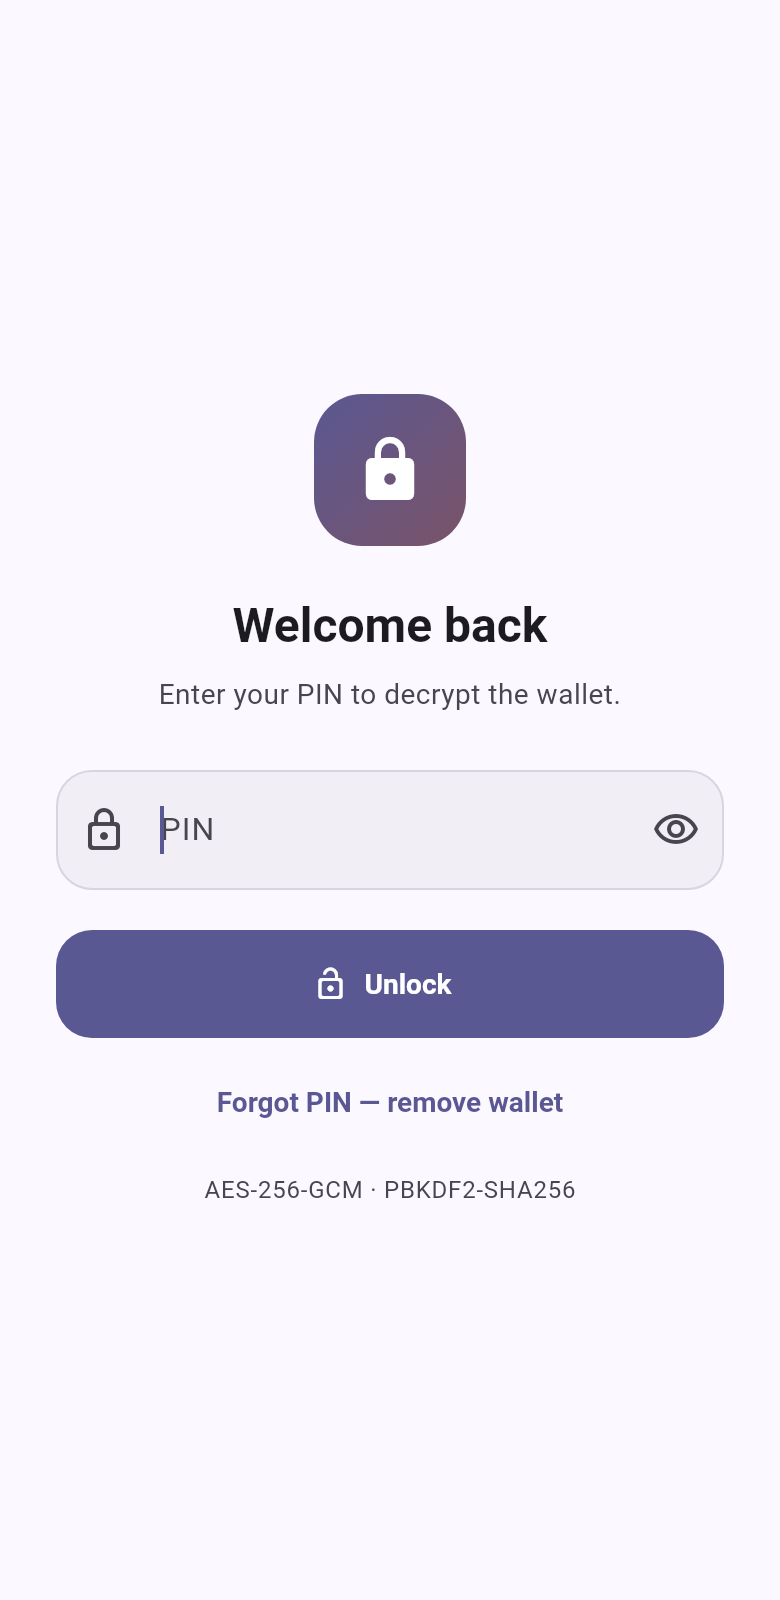
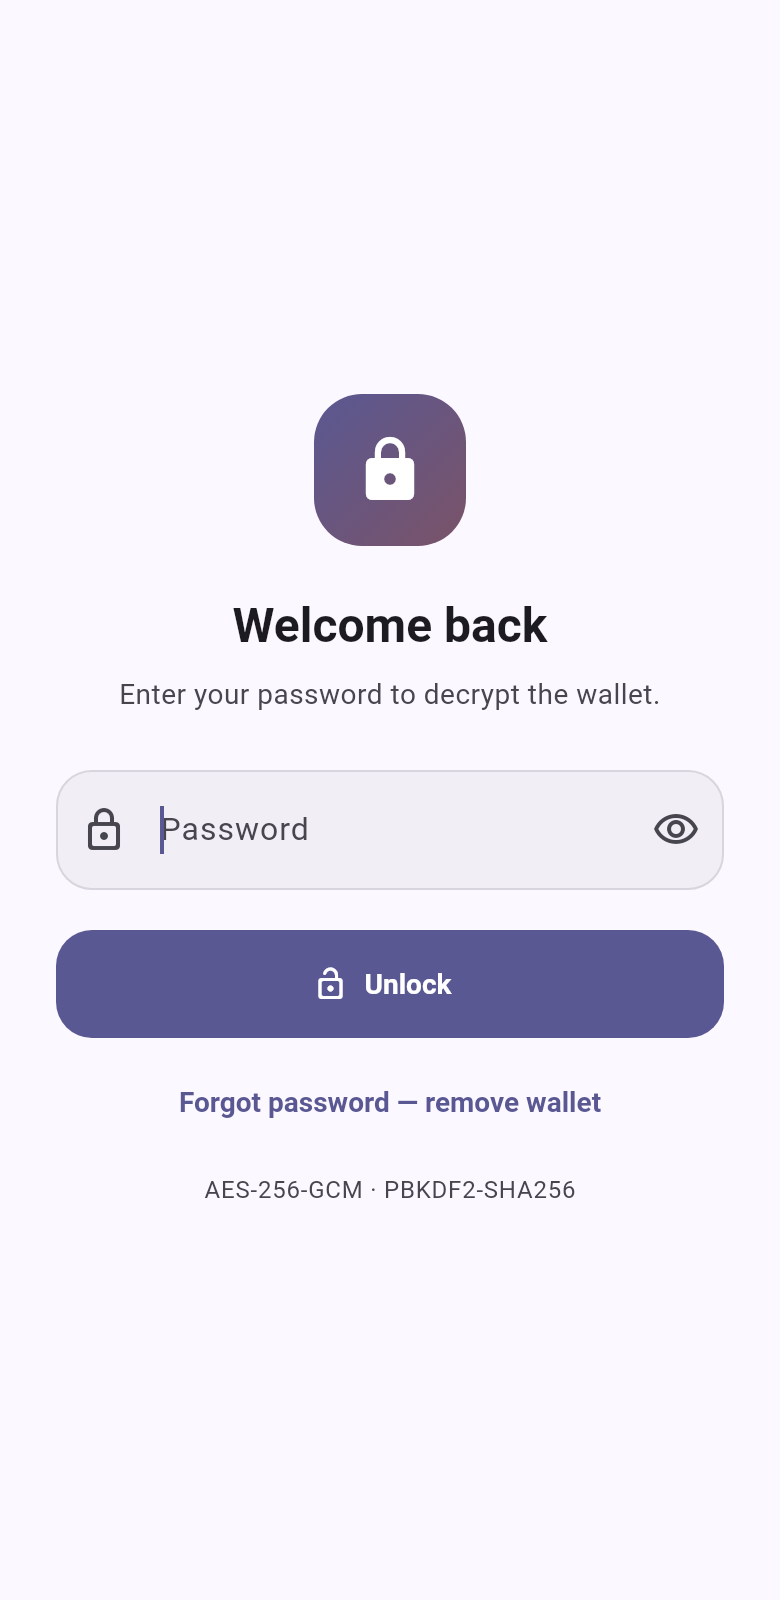
Docs: record live-check results, password/web storage caveats, new milestone E; pin derivation vectors
- GOALS.md / ЦІЛІ.md: refresh §2 numbers, mark 3.8/3.9 as updated, add milestone E,
  rewrite §8 with the results of the live run (incl. the Aptos gas-floor finding)
  and what is still open.
- README: honest disclaimer about what was exercised live, a "what the password
  does and does not protect" section (web storage), verification table with
  status, project structure, roadmap.
- Cross-implementation vectors for Bitcoin/EVM accounts 1-2 and the testnet prefix.
- Regenerated the lock-screen screenshot (password field).

Claude-Session: https://claude.ai/code/session_01A2iXFUu9mC1iG4QZBMTZBk

diff --git a/test/address_deriver_test.dart b/test/address_deriver_test.dart
@@ -52,6 +52,43 @@ void main() {
     });
   });
 
+  group('AddressDeriver — cross-implementation vectors', () {
+    // Generated by an independent BIP-32 / BIP-84 / BIP-44 implementation (no
+    // code shared with the app; it reproduces the published account-0 vectors
+    // above), so a change in the `bip32` dependency or in path handling cannot
+    // pass silently. Phrase: the BIP-39 "abandon … about" vector.
+    final Uint8List seed = AddressDeriver.seedFromMnemonic(vectorMnemonic);
+
+    test('Bitcoin accounts 1 and 2 (m/84\'/0\'/n\'/0/0)', () {
+      expect(
+        AddressDeriver.bitcoinAddressFromSeed(seed, account: 1),
+        'bc1qku0qh0mc00y8tk0n65x2tqw4trlspak0fnjmfz',
+      );
+      expect(
+        AddressDeriver.bitcoinAddressFromSeed(seed, account: 2),
+        'bc1qkljqd65ax6mdpyzm9c2r8scg8euymkfqauukae',
+      );
+    });
+
+    test('Bitcoin testnet uses the same key under the tb prefix', () {
+      expect(
+        AddressDeriver.bitcoinAddressFromSeed(seed, hrp: 'tb'),
+        'tb1qcr8te4kr609gcawutmrza0j4xv80jy8zmfp6l0',
+      );
+    });
+
+    test('EVM accounts 1 and 2 (m/44\'/60\'/n\'/0/0)', () {
+      expect(
+        AddressDeriver.ethereumAddressFromSeed(seed, account: 1),
+        '0x78839F6054d7ed13918bAe0473BA31b1Ca9D7265',
+      );
+      expect(
+        AddressDeriver.ethereumAddressFromSeed(seed, account: 2),
+        '0x07B5FdfEB4E11826D233403Fe8Db0611CCF4c231',
+      );
+    });
+  });
+
   group('AddressDeriver — BIP-39 passphrase', () {
     test('matches the reference vector (passphrase "TREZOR")', () {
       // The first vector of the BIP-39 reference test set: the passphrase is

diff --git a/docs/GOALS.md b/docs/GOALS.md
@@ -1,6 +1,6 @@
 # Material Wallet — analysis and project goals
 
-Date: 18 October 2026 (updated 19 October 2026 — every goal in §4 is implemented in code) · version in `pubspec.yaml`: `0.4.0+5`
+Date: 18 October 2026 (updated 19 October 2026 — every goal in §4 is implemented in code, and the live checks were run the same day: see §8) · version in `pubspec.yaml`: `0.4.0+5`
 
 This document has four parts: the main goal and the principles that must not
 be broken; what already exists; what was found during the review (facts from
@@ -32,12 +32,13 @@ The principles are constraints on every goal in this document:
 
 | | |
 |---|---|
-| Size | `lib/` ≈ 20.3k lines, `test/` ≈ 9.0k, 396 tests |
+| Size | `lib/` ≈ 20.5k lines, `test/` ≈ 9.2k, 413 tests |
 | Networks | 11: Bitcoin (+ testnet), Ethereum, Sepolia, Base, Polygon, Arbitrum, BNB, Solana (+ Devnet), Aptos |
 | Sending | every network: EVM and BNB (EIP-1559, ERC-20, speed-up / cancel, revoke), Bitcoin (P2WPKH, RBF speed-up), SOL and APT (native coin). SPL tokens — view only |
-| Security | AES-256-GCM + PBKDF2 600k, 6–8 digit PIN, biometrics, auto-lock, backoff after wrong PINs, `FLAG_SECURE`, re-authentication before every send |
+| Security | AES-256-GCM + PBKDF2 600k, password of at least 8 characters (old 6–8 digit PINs still unlock), biometrics, auto-lock, backoff after wrong PINs, `FLAG_SECURE`, re-authentication before every send |
 | Providers | mempool.space, Blockscout, CoinGecko, PublicNode, dRPC, 1RPC, official RPCs (Base, Arbitrum, Polygon, BNB), Solana RPC, Aptos fullnode |
-| `ponytail:` markers | 7 |
+| `ponytail:` markers | 8 |
+| Automation | GitHub Actions: `flutter analyze` + `flutter test` on every push and PR; a manual workflow runs the no-spend live checks of §8 |
 
 Three things are done unusually well:
 
@@ -167,6 +168,8 @@ BNB balance does not load at all.
 
 ### 3.8. The PIN is weaker than "600,000 rounds" suggests
 
+> **Updated 2026-10-19:** the password option is done (goal B6): new vaults need at least 8 characters of any kind, which changes the arithmetic below completely. The math still applies to a vault created before B6 with a 6–8 digit PIN, and unlocking never required a minimum, so those wallets keep working: changing the PIN to a password in Settings is the fix. The README now says plainly that on the web build the vault lives in browser storage, where the Keystore argument below does not hold.
+
 PBKDF2 with 600k rounds is the right figure for passwords, but a PIN is 6–8
 digits (`pin_field.dart`: `digitsOnly`, `maxLength: 8`). An RTX 4090 computes
 PBKDF2-HMAC-SHA256 at roughly 8.9 million/s with 999 iterations (hashcat, mode
@@ -182,6 +185,8 @@ the web build, where storage is the browser, it is not. The README should say
 so directly.
 
 ### 3.9. Smaller items
+
+> **Updated 2026-10-19:** the BNB sending gap (C6), the unsaved "hide balance" (D4), unnamed accounts (D3) and the three-of-six provider list (D8) are all fixed; the items below are kept as the record of what was found. One new finding: Bitcoin **testnet** addresses (`tb1…`) are derived from the same path as mainnet (`m/84'/0'/…`, coin type 0), where BIP-84 assigns testnet coin type 1. The key is the same as the mainnet key under a different prefix. It is a simplification, not a bug, and it is not changed because that would move every existing testnet address; do not reuse a testnet account as a mainnet one anyway.
 
 - Address-poisoning checks run only on EVM (`send_screen.dart:179`) — fixed
   2026-10-18 (goal B5): the EVM-only condition is gone and `AddressGuard`
@@ -366,8 +371,21 @@ history-based poisoning check on this network — the UI must say so.
 | D7. Search in Activity by address, label or hash | 2–3 h | after A7 · done 2026-10-19 |
 | D8. Full provider list in About | 10 min | see 3.9 · done 2026-10-18 |
 
+### Milestone E — "Trust what is already built" · done 2026-10-19
+
+Goals that came out of the review of A–D rather than from the original analysis.
+
+| goal | status | note |
+|---|---|---|
+| E1. CI | done | `.github/workflows/ci.yml`: `flutter analyze` and `flutter test` on every push to `main` and every PR, Flutter pinned to the version in the README. |
+| E2. Run the live checks | done except two | See §8. The run found a real bug (the Aptos gas floor). |
+| E3. Live checks that fail loudly | done | Every `tool/verify_*.dart` now sets a non-zero exit code on `FAIL`, so a workflow cannot go green on a failed check; `.github/workflows/live-checks.yml` runs them by hand. `tool/verify_ens.dart` is new. |
+| E4. Derivation vectors beyond the pinned ones | done | The official SLIP-0010 ed25519 vectors (`test/slip10_vectors_test.dart`) pin the derivation function for any path; Bitcoin accounts 1–2, the testnet prefix and EVM accounts 1–2 are pinned with values from an independent BIP-32 implementation that reproduces the published account-0 vectors. Both are in `test/`. |
+| E5. Manual "hide token" | done | Long-press a token on the home list; "Show N hidden" restores it; stored per network and contract. **Known limit** (`ponytail:`): hiding trims the list only, the totals still count a priced hidden token. |
+
 ### Larger ideas — separate branches
 
+- **Sending SPL tokens and Aptos fungible assets** — balances are shown today. SPL needs the recipient's associated token account (created on demand, with its own rent) and a new vector from an external implementation, plus a devnet simulation, before it may sign (§7 rule 3).
 - **Watch-only addresses** — follow a cold wallet without keys. Requires
   separating "address" from "seed" in `WalletIdentityController`.
 - **Multiple seed phrases** — currently one vault per device.
@@ -397,7 +415,7 @@ history-based poisoning check on this network — the UI must say so.
 
 The first four rows are about two days of work, after which the wallet stops
 showing wrong amounts and catches the most expensive sending mistakes.
-Rows 1–4 and all of row 5 except B3 (Bitcoin RBF) are done as of 2026-10-18. Rows 6–10 (A7, C1, D1, B3 Speed up, C2, C3 → C6, D2–D7) were done on 2026-10-19: everything is in code and tests, except the live checks in §8.
+Rows 1–4 and all of row 5 except B3 (Bitcoin RBF) are done as of 2026-10-18. Rows 6–10 (A7, C1, D1, B3 Speed up, C2, C3 → C6, D2–D7) were done on 2026-10-19: everything is in code and tests. The live checks in §8 were run the same day; two of them still need a funded testnet wallet.
 
 ---
 
@@ -436,15 +454,22 @@ Rows 1–4 and all of row 5 except B3 (Bitcoin RBF) are done as of 2026-10-18. R
 
 ---
 
-## 8. What still has to be checked live
+## 8. Live checks
 
-The code and vectors are done, but outbound traffic to chain nodes is blocked in the development environment, so nobody has run these checks yet. Do them before trusting a path with real funds:
+Outbound traffic to chain nodes was blocked while the code of §4 was written, so the paths below had only vectors behind them. On 2026-10-19 the no-spend checks were run from a machine with network access. None of them signs with a funded key or spends anything.
 
-| What | How | Success looks like |
+| What | How | Result |
 |---|---|---|
-| BNB Chain | `dart run tool/verify_eip1559.dart bsc-testnet` | `PASS`: the node decoded the type-2 transaction and rejected it only for insufficient funds |
-| Solana | `dart run tool/verify_solana.dart` | `PASS`: `AccountNotFound` for the real signature, a signature failure for the tampered one |
-| Aptos | `dart run tool/verify_aptos.dart` | `PASS`: `SENDING_ACCOUNT_DOES_NOT_EXIST` for the real transaction, a parse error for the control |
-| Bitcoin RBF | send 1 sat/vB on testnet → "Speed up" → confirmation | the replacement is accepted and the original can no longer confirm |
-| ENS | type a known `name.eth` into Send on Ethereum | the address under the field is the expected one |
-| Fallback RPC | block the first node (or point it at a dead host) | the send goes through the next node |
+| EVM on Sepolia | `dart run tool/verify_eip1559.dart sepolia` | **PASS** — the node decoded the type-2 transaction and rejected it only for insufficient funds |
+| BNB Chain | `dart run tool/verify_eip1559.dart bsc-testnet` | **PASS** — same, on chain id 97 |
+| Solana | `dart run tool/verify_solana.dart` | **PASS** — `AccountNotFound` for the real signature, `SignatureFailure` for the tampered one |
+| Aptos | `dart run tool/verify_aptos.dart` | **PASS after a fix** — see below |
+| ENS | `dart run tool/verify_ens.dart` | **PASS** — `vitalik.eth` resolved to `0xd8da…6045`; an unregistered name reverted and is treated as "nothing" |
+| Fallback RPC | block the first node (or point it at a dead host) | **not run live** — covered by `test/rpc_failover_test.dart` with a fake transport; a real dead node has not been tried |
+| Bitcoin RBF | send 1 sat/vB on testnet → "Speed up" → confirmation | **not run** — needs a funded testnet wallet; the replacement planner is covered by `test/bitcoin_rbf_test.dart` |
+
+**What the Aptos run found.** The first run failed: the node parsed the BCS transaction but refused it with `MAX_GAS_UNITS_BELOW_MIN_TRANSACTION_GAS_UNITS`. The wallet's `max_gas_amount` floor was 2 000 units; bisecting against the testnet node put the intrinsic minimum at **5 210**. Every real Aptos send would have been rejected, and no vector or unit test could have shown it, because the minimum is a property of the chain. The floor is now 10 000 (`AptosSigner.maxGasFloor`); only gas actually used is charged. **Mainnet was not probed**, so that margin is a judgement, not a measurement: run `verify_aptos.dart` against mainnet's node before relying on it. With the floor fixed, a made-up sender fails earlier (`INVALID_AUTH_KEY`), so the tool now derives the sender from the key and accepts `INSUFFICIENT_BALANCE_FOR_TRANSACTION_FEE` as proof the node accepted the transaction.
+
+The same checks can be run from GitHub: **Actions → Live checks → Run workflow**.
+
+Still worth doing before real funds: a Bitcoin testnet speed-up, and one send of a few cents on each network the wallet signs.

diff --git a/README.md b/README.md
@@ -8,9 +8,11 @@ generated locally, encrypted, and stored only on this device.
 > This project is a **portfolio / educational app**. It derives real public
 > addresses, reads live on-chain data, and **signs and broadcasts real
 > transactions** on-device: EVM chains (native coin and ERC-20), Bitcoin, and the
-> native coin of Solana and Aptos. The Solana, Aptos and BNB Chain send paths are
-> pinned by reference vectors but have **not yet been exercised against a live
-> node** — see [Verifying the signing paths](#verifying-the-signing-paths).
+> native coin of Solana and Aptos. Every signing path is pinned by reference
+> vectors, and the EVM, BNB Chain, Solana and Aptos paths have been checked
+> against live nodes **by simulation only — no funded transfer has been sent**;
+> the Bitcoin replace-by-fee path has not been tried on a live network at all —
+> see [Verifying the signing paths](#verifying-the-signing-paths).
 > **Do not use it to store meaningful funds.**
 
 ---
@@ -45,7 +47,7 @@ generated locally, encrypted, and stored only on this device.
   transfers and Low/Normal/High/**custom** fee presets. On **EVM networks** the
   transfer is signed on-device as an **EIP-1559** (type-2) transaction with a
   fee cap (EIP-2, RFC-6979), re-checks the live balance right before signing,
-  and is broadcast for real after a PIN confirmation, ending on a full-screen
+  and is broadcast for real after a password (or fingerprint) confirmation, ending on a full-screen
   success screen. On **Bitcoin** the transfer is a native SegWit
   (**BIP-143 P2WPKH**) transaction: utxos are selected for the entered amount,
   change returns to your address, the fee is priced in sat/vB with the same
@@ -72,7 +74,9 @@ generated locally, encrypted, and stored only on this device.
 - 🪙 **Token balances** — ERC-20 holdings with USD values on the Blockscout-backed
   EVM networks (tap a token to send it), and **SPL tokens** on Solana (Token and
   Token-2022 programs; tickers and prices from CoinGecko, shown but not yet
-  sendable).
+  sendable). Long-press a token to hide it from the list (and again, or
+  "Show hidden", to bring it back); hiding trims the list only — totals still
+  count a priced token.
 - 🚀 **Bitcoin replace-by-fee** — transfers are signed with the BIP-125 sequence,
   and a pending one can be sped up: the same payment from the same coins with a
   larger fee taken out of the change (never from the recipient, never adding
@@ -195,11 +199,33 @@ nodes (PublicNode, dRPC, 1RPC, the chains' own endpoints).
   address book, the active account index and the last account snapshots) lives
   in `shared_preferences`.
 
+### What the password does and does not protect
+
+The 600,000 PBKDF2 rounds slow down guessing, but they cannot make a short secret
+strong: on a single modern GPU a 6-digit PIN falls in about a minute and an
+8-digit one in a couple of hours, once the encrypted vault is in an attacker's
+hands. That is why new wallets ask for a **password of at least 8 characters**;
+a wallet created earlier with a 6–8 digit PIN keeps unlocking, and Settings lets
+you change it to a password.
+
+- **On Android** the vault sits in app-private storage with `allowBackup="false"`
+  and the biometric-unlock PIN in the platform keystore, so reading it needs
+  root or a forensic image — the password is the second layer, not the only one.
+- **On the web** the vault lives in browser storage, which anyone with access to
+  the browser profile (an extension, a shared machine, malware) can copy. There
+  the password is effectively the only layer, so use a long one — or do not use
+  the web build for anything beyond trying the app.
+- Biometric unlock is a convenience gate: the password is released after a
+  successful prompt, but the stored key is not cryptographically bound to the
+  biometric.
+- **Do not put the encrypted seed in a cloud backup**; with a short password it
+  can be brute-forced offline.
+
 ---
 
 ## Tech stack
 
-- **Flutter 3.47** / **Dart 3.13**, Material 3.
+- **Flutter 3.47** / **Dart 3.13**, Material 3 (CI pins Flutter 3.47.7).
 - **provider** for state management.
 - **pointycastle** (AES-GCM, PBKDF2, ECDSA), **bip39**, **bip32**,
   **ed25519_edwards** for key material and derivation. Bitcoin transactions are
@@ -247,20 +273,29 @@ spends nothing:
 | Bitcoin (BIP-143) | the published BIP-143 P2WPKH sighash, byte for byte | broadcast a 1 sat/vB transfer on testnet, then speed it up |
 | Solana | `test/ed25519_signers_test.dart`: message and signed transaction match `solders` (the Rust solana-sdk) byte for byte | `dart run tool/verify_solana.dart` — `simulateTransaction` with `sigVerify` on Devnet |
 | Aptos | the same file: `RawTransaction`, signing message and signed transaction match the official `aptos-sdk` byte for byte | `dart run tool/verify_aptos.dart` — `/transactions/simulate` on testnet |
-| ENS | EIP-137 namehash vectors, ABI layout of the Universal Resolver call | resolve a known name on mainnet |
+| ENS | EIP-137 namehash vectors, ABI layout of the Universal Resolver call | `dart run tool/verify_ens.dart` — resolves a known name on mainnet |
+| Key derivation | BIP-39, BIP-84 and EIP-55 reference values; the official SLIP-0010 ed25519 vectors; account 1–2 and testnet values from an independent BIP-32 implementation | — |
 
-> **Status:** the vectors run in `flutter test`. The *live* checks need to reach
-> public nodes and could not be run from the sandbox this code was written in
-> (outbound traffic to chain nodes is blocked there), so run them once before
-> trusting a send path with real money — in particular `bsc-testnet`,
-> `verify_solana.dart`, `verify_aptos.dart`, a Bitcoin testnet speed-up, and one
-> ENS lookup.
+> **Status (2026-10-19):** the vectors run in `flutter test` and in CI on every
+> push. The live checks were run against public nodes the same day: **Sepolia,
+> BSC testnet, Solana Devnet, Aptos testnet and ENS pass**. The Aptos run found
+> a real bug — the wallet's gas-limit floor (2,000) was below the node's minimum
+> (5,210 on testnet) and every send would have been refused — which is fixed;
+> mainnet's minimum was **not** probed, so run `verify_aptos.dart` against it
+> before relying on the new floor. **Not yet run:** a Bitcoin testnet speed-up
+> (needs a funded testnet wallet), a real dead first RPC node (the fail-over is
+> covered by a test with a fake transport), and an actual funded transfer on any
+> network. Do that with a few cents before trusting a path.
+>
+> The checks can also be started from GitHub: **Actions → Live checks → Run
+> workflow**.
 
 ---
 
 ## Project structure
 
 ```
+.github/workflows/            # CI (analyze + test) and the manual live checks
 lib/
 ├── main.dart                 # Entry point
 ├── app.dart                  # Root widget, providers, routing gate
@@ -275,7 +310,10 @@ lib/
 ├── features/                 # onboarding, lock, home, send, receive,
 │                             # activity, settings, scan, network pickers
 ├── shared/widgets/           # reusable UI widgets
-└── state/                    # controllers (settings, identity, wallet)
+└── state/                    # controllers (settings, identity, wallet, send,
+                              # portfolio, notes, contacts, hidden tokens)
+test/                         # unit and widget tests, incl. signing vectors
+tool/                         # live checks (verify_*.dart), screenshot and icon scripts
 docs/
 ├── GOALS.md                  # analysis and development goals (English)
 └── ЦІЛІ.md                   # the same document in Ukrainian (original)
@@ -301,8 +339,14 @@ docs/
 - [x] Address poisoning warning in the send flow.
 - [x] BIP-39 passphrase (25th word) support — encrypted alongside the phrase in
       the vault, applied to every derivation (BIP-39 reference vector pinned).
-- [ ] Known-answer test vectors for the address derivations beyond the ones
-      already pinned (BIP-32 test vectors per coin type).
+- [x] Known-answer test vectors for the address derivations beyond the ones
+      already pinned (official SLIP-0010 vectors; accounts 1–2 and the testnet
+      prefix from an independent BIP-32 implementation).
+- [x] CI: `flutter analyze` and `flutter test` on every push and pull request.
+- [x] Live checks run against public nodes (Sepolia, BSC testnet, Solana Devnet,
+      Aptos testnet, ENS); an Aptos gas-floor bug found and fixed.
+- [ ] Live checks still open: Bitcoin testnet speed-up, a real dead RPC node, a
+      funded transfer on each network, the Aptos floor against mainnet.
 
 ### Next: honest numbers (milestone A)
 
@@ -344,6 +388,11 @@ docs/
 - [x] Local notes on transactions, included in the CSV export.
 - [x] ENS names in the recipient field.
 - [x] Search in Activity.
+- [x] Hide a token from the home list.
+- [ ] Ukrainian localisation (all strings are English in the code today).
+- [ ] Watch-only addresses; more than one recovery phrase per device.
+- [ ] Biometric unlock bound to a Keystore key (needs a different plugin than
+      `local_auth`).
 
 Full analysis, reasons and acceptance criteria: [`docs/GOALS.md`](docs/GOALS.md)
 (English) · [`docs/ЦІЛІ.md`](docs/ЦІЛІ.md) (original, Ukrainian).
